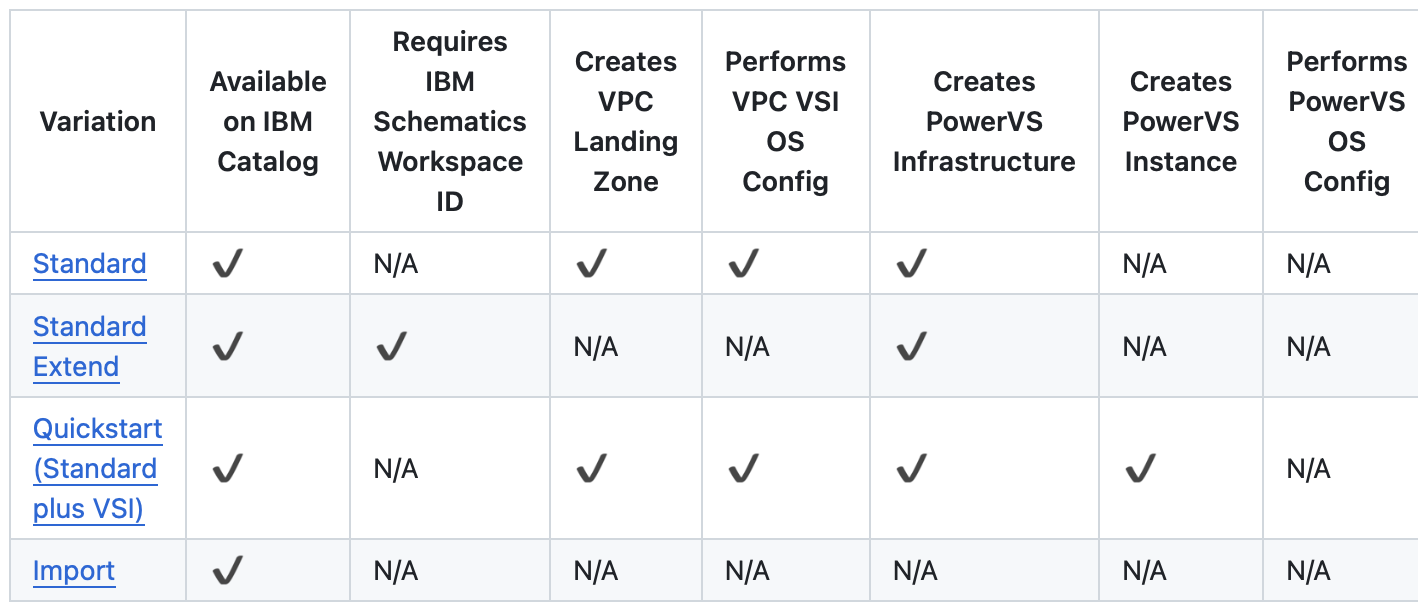
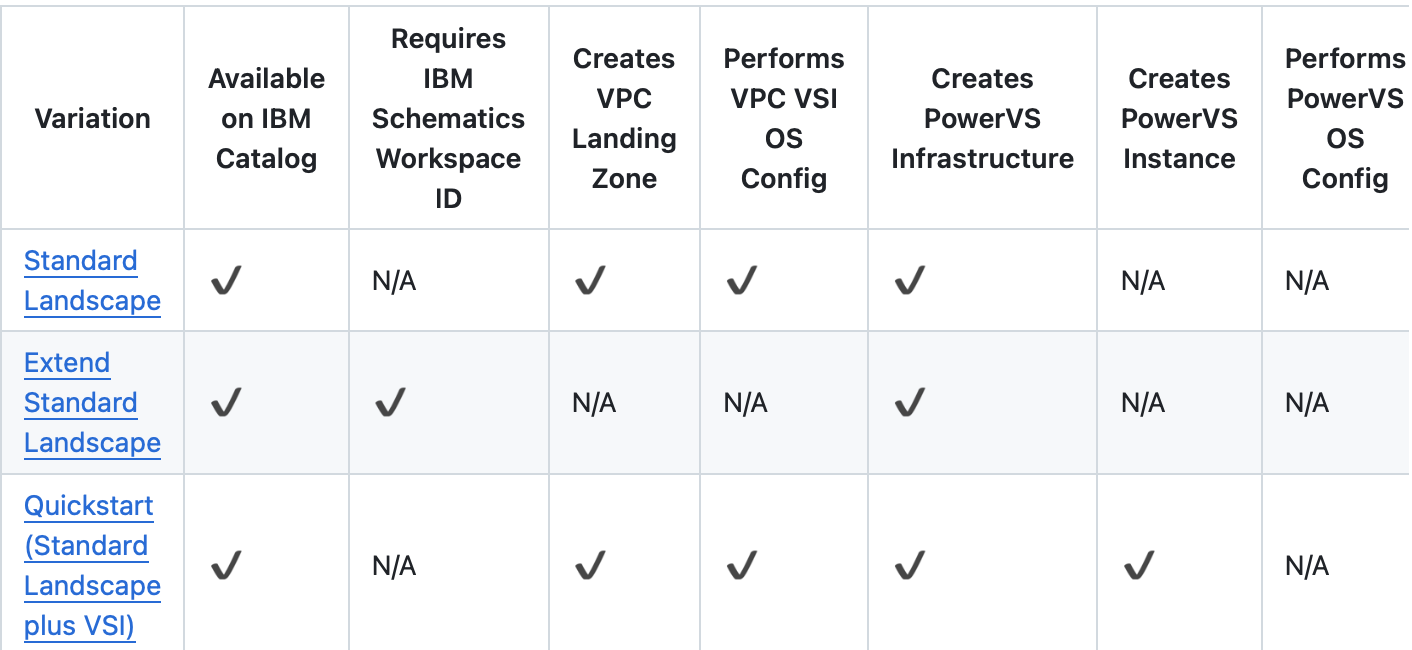
Next publish push (#87)

diff --git a/overview-overview.md b/overview-overview.md
@@ -2,7 +2,7 @@
 
 copyright:
   years: 2023, 2025
-lastupdated: "2025-03-27"
+lastupdated: "2025-05-07"
 keywords: powervs, landing zone, sap, automation, deployable architecture
 subcollection: powervs-vpc
 
@@ -21,7 +21,7 @@ In the following sections, the deployable architecture variants are described.
 
 ![Solution Overview](images/overview-solutions.png){: caption="Solution Overview" caption-side="center"}
 
-## 1. Standard variation
+## 1. Standard Landscape variation
 {: #overview-standard-variant}
 
 This deployable architecture variation deploys these resources:
@@ -29,13 +29,12 @@ This deployable architecture variation deploys these resources:
 | Resource Type | Optional | Description |
 |---|---|---|
 | Workspace for {{site.data.keyword.powerSys_notm}} |  | [Workspace for {{site.data.keyword.powerSys_notm}}](/docs/power-iaas?topic=power-iaas-creating-power-virtual-server#creating-service) with 2 subnets and an SSH key |
-| Stock Images  | Yes | Imports IBM Provided Stock Catalog Images into Workspace for {{site.data.keyword.powerSys_notm}} |
 | Custom Images | Yes | Imports up to three custom images from Cloud Object Storage into Workspace for {{site.data.keyword.powerSys_notm}} |
 {: class="standard-variant-table"}
 {: tab-group="standard-variant"}
 {: #standard-variant-1}
 {: tab-title="{{site.data.keyword.powerSys_notm}}"}
-{: caption="Standard Variation Components" caption-side="bottom"}
+{: caption="Standard Landscape variation Components" caption-side="bottom"}
 
 | Resource Type | Optional | Description |
 |---|---|---|
@@ -51,7 +50,7 @@ This deployable architecture variation deploys these resources:
 {: tab-group="standard-variant"}
 {: #standard-variant-2}
 {: tab-title="VPC"}
-{: caption="Standard Variation Components" caption-side="bottom"}
+{: caption="Standard Landscape variation Components" caption-side="bottom"}
 
 | Resource Type | Optional | Description |
 |---|---|---|
@@ -64,9 +63,9 @@ This deployable architecture variation deploys these resources:
 {: tab-group="standard-variant"}
 {: #standard-variant-3}
 {: tab-title="Cloud Service"}
-{: caption="Standard Variation Components" caption-side="bottom"}
+{: caption="Standard Landscape variation Components" caption-side="bottom"}
 
-## 2. Standard Extend variation
+## 2. Extend Standard Landscape variation
 {: #overview-standard-extend-variant}
 
 This variation has a prerequisite. You must deploy the 'Create a new architecture Standard' variant first.
@@ -80,13 +79,12 @@ This deployable architecture variation deploys these resources:
 | Resource Type | Optional | Description |
 |---|---|---|
 | Workspace for {{site.data.keyword.powerSys_notm}} |  | [Workspace for {{site.data.keyword.powerSys_notm}}](/docs/power-iaas?topic=power-iaas-creating-power-virtual-server#creating-service) with 2 subnets and an SSH key |
-| Stock Images  | Yes | Imports IBM Provided Stock Catalog Images into Workspace for {{site.data.keyword.powerSys_notm}} |
 | Custom Images | Yes | Imports up to three custom images from Cloud Object Storage into Workspace for {{site.data.keyword.powerSys_notm}} |
 {: class="standard-extend-variant-table"}
 {: tab-group="standard-extend-variant"}
 {: #standard-extend-variant-1}
 {: tab-title="{{site.data.keyword.powerSys_notm}}"}
-{: caption="Standard Extend Variation Components" caption-side="bottom"}
+{: caption="Standard Landscape Extend variation Components" caption-side="bottom"}
 
 
 ## 3. Quickstart variation
@@ -168,15 +166,6 @@ You can run AIX, IBM i, and Linux images on your virtual server instances. Selec
 {: caption="T-shirt size and configuration mapping" caption-side="top"}
 {: #resize_core_memory-3}
 {: tab-title="SAP HANA (RHEL/SLES)"}
-
-## 4. Import variation
-{: #overview-powervs-workspace-import-variant}
-
-Create an IBM Cloud schematics workspace for your pre-existing VPC and {{site.data.keyword.powerSys_notm}} infrastructure resources using the new {{site.data.keyword.powerSys_notm}} (PowerVS) with VPC landing zone variation - 'Import {{site.data.keyword.powerSys_notm}} Workspace'.
-
-This variation helps to install the deployable architecture ['Power Virtual Server for SAP HANA'](https://cloud.ibm.com/catalog/architecture/deploy-arch-ibm-pvs-sap-9aa6135e-75d5-467e-9f4a-ac2a21c069b8-global) on top of a pre-existing {{site.data.keyword.powerSys_notm}}(PowerVS) landscape. 'Power Virtual Server for SAP HANA' automation requires a schematics workspace id for installation. The 'Import' solution creates a schematics workspace by taking pre-existing VPC and {{site.data.keyword.powerSys_notm}} infrastructure resource details as inputs. The ID of this schematics workspace will be the pre-requisite workspace id required by 'Power Virtual Server for SAP HANA' to create and configure the {{site.data.keyword.powerSys_notm}} instances for SAP on top of the existing infrastructure.
-
-Check the pre-requisites for this variation [here](https://github.com/terraform-ibm-modules/terraform-ibm-powervs-infrastructure/tree/main/solutions/import#pre-requisites).
 
 
 ## Other {{site.data.keyword.powerSys_notm}} related deployable architectures

diff --git a/overview-release-notes.md b/overview-release-notes.md
@@ -2,7 +2,7 @@
 
 copyright:
    years: 2023, 2025
-lastupdated: "2025-05-02"
+lastupdated: "2025-05-07"
 keywords:
 subcollection: powervs-vpc
 content-type: release-note
@@ -19,6 +19,21 @@ Use these release notes to learn about the latest updates to the {{site.data.key
 
 ## May 2025
 {: #powervs-vpc-2025-05}
+
+### 07 May 2025
+{: #powervs-vpc-may07}
+{: release-note}
+
+Version 8.4.0 of the {{site.data.keyword.powerSysFull}} with VPC landing zone deployable architecture is available
+: Version 8.4.0 of the [{{site.data.keyword.powerSys_notm}} with VPC landing zone](https://cloud.ibm.com/catalog/architecture/deploy-arch-ibm-pvs-inf-2dd486c7-b317-4aaa-907b-42671485ad96-global){: external} deployable architecture is available in the {{site.data.keyword.cloud_notm}} [catalog](/catalog#reference_architecture){: external}
+    - **Standard** Variation has been renamed to **Standard Landscape** and **Standard Extend** variation has been renamed to **Extend Standard Landscape**.
+    - Import varaition has been removed.
+    - **Quickstart** now deploys Client-to-site VPN, SCC-WP by default. These can be disabled by adjusting the optional parameter settings.
+    - Stock catalog image import into the PowerVS workspace is no longer needed. PowerVS instances can now be created from catalog images without previously importing the images.
+    - Fixed Quickstart deployments for SAP profile t-shirt:
+       - In P10 datacenters, the `sh2-4x256` profile is used.
+       - In non-P10 datacenters, the `ush1-4x256` profile is used.
+
 
 ### 02 May 2025
 {: #powervs-vpc-may02}
